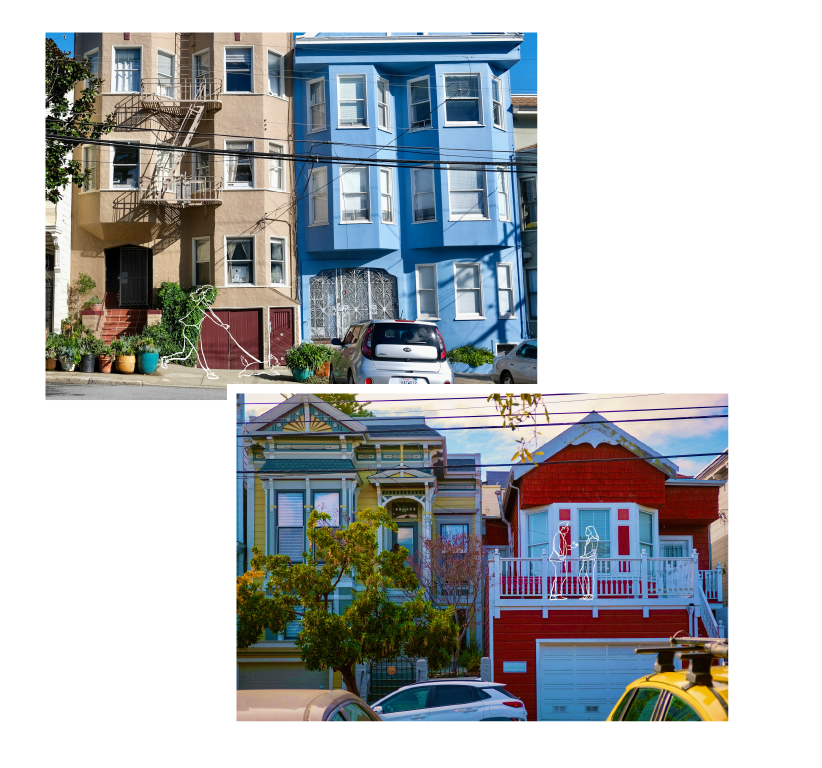
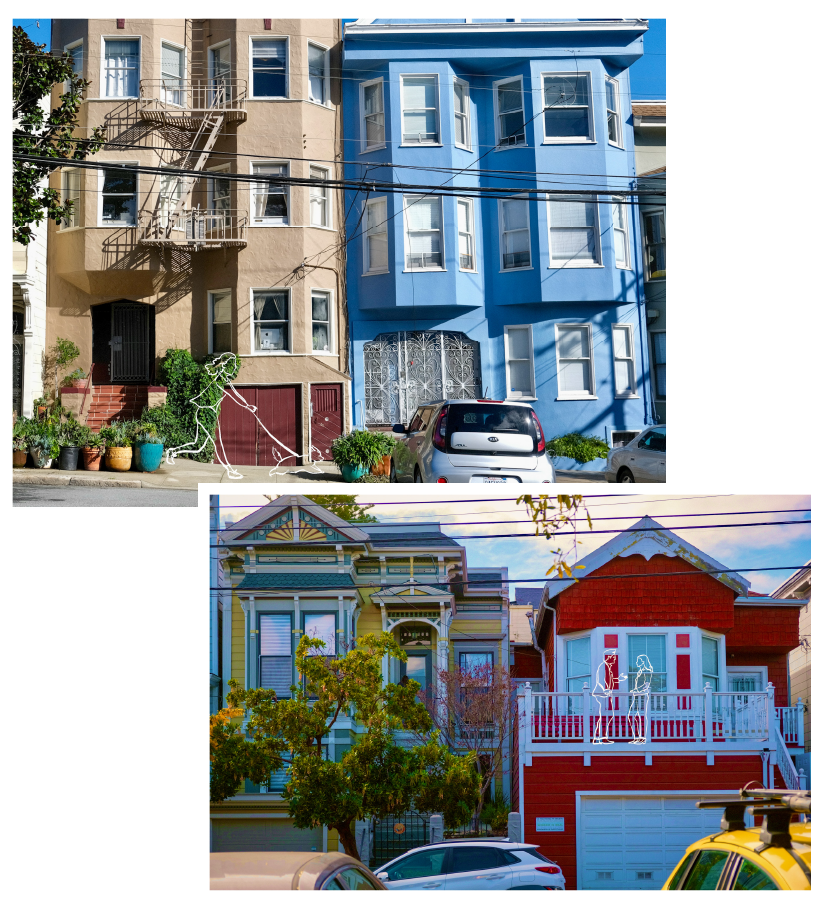
v1 completed

diff --git a/index.html b/index.html
@@ -24,7 +24,7 @@
   <div class="container">
 
     <div class="sidebar sidebar-left">
-      <img class="side-image" src="images/sidebar.png" alt="">
+      <img class="side-image" src="images/sidebar.png" alt="alt" id="sidebarImage1">
     </div>
 
     <div class="article">
@@ -46,7 +46,7 @@
       <p>She even remembers some of the colors of her neighbors’ homes. She described a house that she used to pass daily when driving on the freeway to get to the city: a Victorian painted “shockingly pink.” A few years later, she saw it repainted a bright teal color. Now, it’s brown.</p>
       <p>Many other houses have received similar treatment. Some city residents have gone as far as proclaiming a "<a href="https://www.sfchronicle.com/culture/article/Welcome-to-grayspace-San-Francisco-s-new-14493024.php">gray-washing</a>" of San Francisco, describing a trend where once-colorful residences are repainted gray.</p>
       <br>
-      
+
       <h2>A Hundred Painted Ladies</h2>
       
       <p class="map-instruction">Click on the pins below to see the representative house colors in each neighborhood:</p>
@@ -93,7 +93,7 @@
         <div class="clickable-point" style="left: 69%; top: 72%;" data-target="hover-box-5"></div>
       </div>
     
-      <p class="map-method">Methodology and data processing: <a href="data/ColorVisual.html">Jupyter Notebook</a></p>
+      <p class="map-method">Methodology and Data: <a href="data/ColorVisual.html">Jupyter Notebook</a></p>
 
       <p>The rows of Victorians that make up the city’s unique architectural landscape can be traced back to the population boom of the 1849 gold rush. Houses were painted white to disguise their wooden structure and later a battleship gray after the First World War. Then, the colorist movement during the 1960s ushered in a new era of color. Houses were painted bright greens, blues, and golds.</p>
       <p>However, some experts say that San Francisco’s house colors meant something greater than paint to colorists.</p>
@@ -101,13 +101,13 @@
       <p>Bongiovanni echoed this sentiment, saying that her and her neighbor’s freedom to paint houses allows them to display their individuality. “It’s important for me to see different colors in the neighborhood,” she said. “I want to see their different personalities.”</p>
       <p>She also said that the color cityscape is a source of pride, distinguishing her city from others in the U.S. Bongiovanni’s daughter and son-in-law live in Arizona, where she said the houses are “boring ... all painted either brown or gray.”</p>
 
-      <img id="photo" src="images/colorcollage.png" alt="Photo collage of some houses in San Francisco">
+      <img id="photo" src="images/colorcollage.png" alt="Photo collage 2 photos: one photo of a tan and light blue house side by side, with an illustration of a lady walking her dog overlayed; another photo of a colorful teal and yellow house beside a red one, with an illustration of a couple chatting on the deck overlayed.">
 
       <p>Also known as “Dr. Color,” Bob Buckter is one of the most famous color consultants in San Francisco. Over the course of 53 years, he has helped more than 20,000 clients paint their homes. He said he works with clients to gauge their tastes and find the house color that makes them happy. He has noticed more people painting their house shades of gray in the last few years.</p>
       <p>When asked about the recent popularity of gray homes, his response was abrupt, as if he had rehearsed it.</p>
       <p>“Gray is today. Gray is okay. Gray is great.” He laughed, explaining that he had been waiting for a chance to say that. “It’s just a trend.”</p>
 
-      <img id="photo" src="images/photo.png" alt="Photo collage of some houses in San Francisco">
+      <img id="photo" src="images/bobpull.png" alt="Photo collage of some houses in San Francisco">
     
       <br>
       <h2>Why Is Gray So Great?</h2>
@@ -118,7 +118,7 @@
       <p>But to some residents, this trend may have lasting consequences.</p>
       <p>San Francisco native and muralist Marina Perez-Wong grew up in the Mission District, a neighborhood known for its <a href="https://www.sftravel.com/article/guide-to-san-francisco%E2%80%99s-mission-district-murals#:~:text=social%2Dpolitical%20statements.-,The%20Mission%20District%20is%20a%20virtual%20outdoor%20art%20gallery%20full,heritage%20to%20social%2Dpolitical%20statements.">vibrant art scene</a>. She echoed Lubey’s sentiment attributing the trend to the influx of workers moving into the city.</p>
       <p>“[Gray is] kind of devoid of soul. A lot of times, it's just structural. And there's not a whole lot of personality or movement,“ she said. “And if you look at it culturally, where I grew up, [there] were mostly Latin Americans and Asians. And we love the bright colors–it gives you the effect of happiness, of vibrancy, of life.”</p>
-      <img id="photo" src="images/marinapull.png" alt="Photo collage of some houses in San Francisco">
+      <img id="photo" src="images/marinapull.png" alt="A quote from Said Marina Perez-Wong & a illustrated photo side by side. Quote: 'And we love the bright colors - it gives you the effect of happiness, of vibrancy, of life'. Photo: The colorful and famous San Francisco jungle house, with illustrations of a man with a dog and cats in the windows overlayed.">
       <p>Bongiovanni said that she felt pressured by the real estate trend to repaint her house gray. She recalled the “beautiful, grayish-lavender” that her family painted one former home, then later repainted that same shade because they loved it so much. But after it was sold, much of what she believes made the house uniquely beautiful was changed.</p>
       <p>“We had to change a lot of our house, to make it according to the trend.”</p>
       <p>The city itself does not prevent residents from repainting their houses according to their taste. “The Planning Code does not regulate the color of buildings,” city planner Kimberly Durandet wrote in an email. “We do conduct design reviews and consider materials and other design elements but not specifically color choices.”</p>
@@ -130,9 +130,9 @@
       <br><br><br><br><br>
 
     <div class="footnote">
-        Illustration by Iliana Garner, June Woo, and Ashley Guo <br>
-        Photo and Web Development by Eugenia Cao <br>
-        Independent Reporting under JOUR390: Visual Storytelling for the Web <br>
+        Illustration and Draphic Design by Iliana Garner, June Woo, and Ashley Guo<br>
+        Photo, Web Development, and Data Analysis by Eugenia Cao<br>
+        Independent Reporting as part of JOUR 390: Visual Storytelling for the Web<br>
         Northwestern University, Winter 2024
     </div>
 

diff --git a/game/styles.css b/game/styles.css
@@ -70,9 +70,9 @@ body {
     font-size: 14px;
     text-align: center;
     text-decoration: none;
-    color: #000; /* Text color */
-    background-color: #fff; /* Background color */
-    border: 1.5px solid #000; /* Border color */
+    color: #171717; /* Text color */
+    background-color: #ffffff; /* Background color */
+    border: 1.5px solid #171717; /* Border color */
     border-radius: 5px;
     transition: all 0.3s ease;
     margin-top: 20%; /* Adjust the margin to move the element down */

diff --git a/styles.css b/styles.css
@@ -1,4 +1,5 @@
 body {
+  background-color: #f9f9f9;
   font-family: "mrs-eaves-xl-serif", serif;
   font-weight: 400;
   font-style: normal;
@@ -49,7 +50,7 @@ p.special::first-line {
   flex-grow: 1;
   background-color: #f9f9f9;
   padding: 10%;
-  padding-bottom: 0;
+  padding-bottom: 1%;
   padding-top: 5%;
   margin-right: 0px; /* Add margin to create space between the article and the sidebar */
   overflow-y: auto; /* Enable vertical scrolling for the article */

diff --git a/scripts.js b/scripts.js
@@ -34,7 +34,7 @@ function changeImage(n) {
 // Automatically change image every 2 seconds
 setInterval(function() {
   changeImage(1);
-}, 3000);
+}, 500);
 
 
 // Hover effect on map
